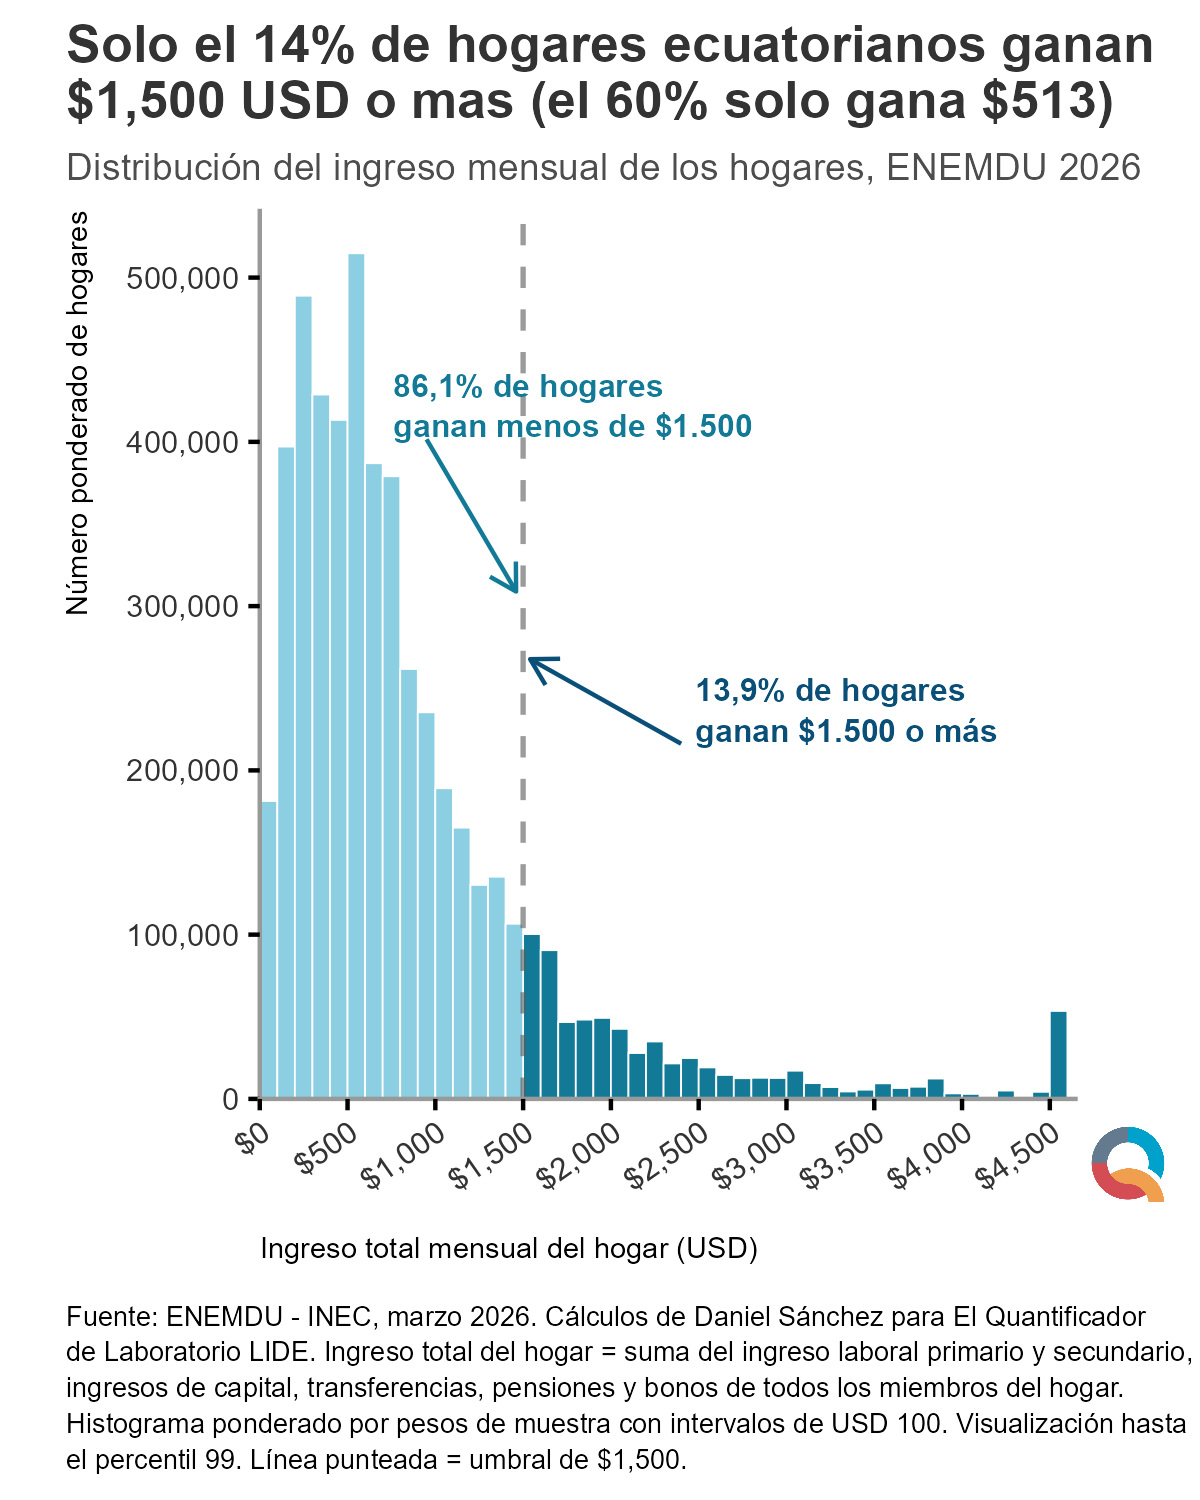
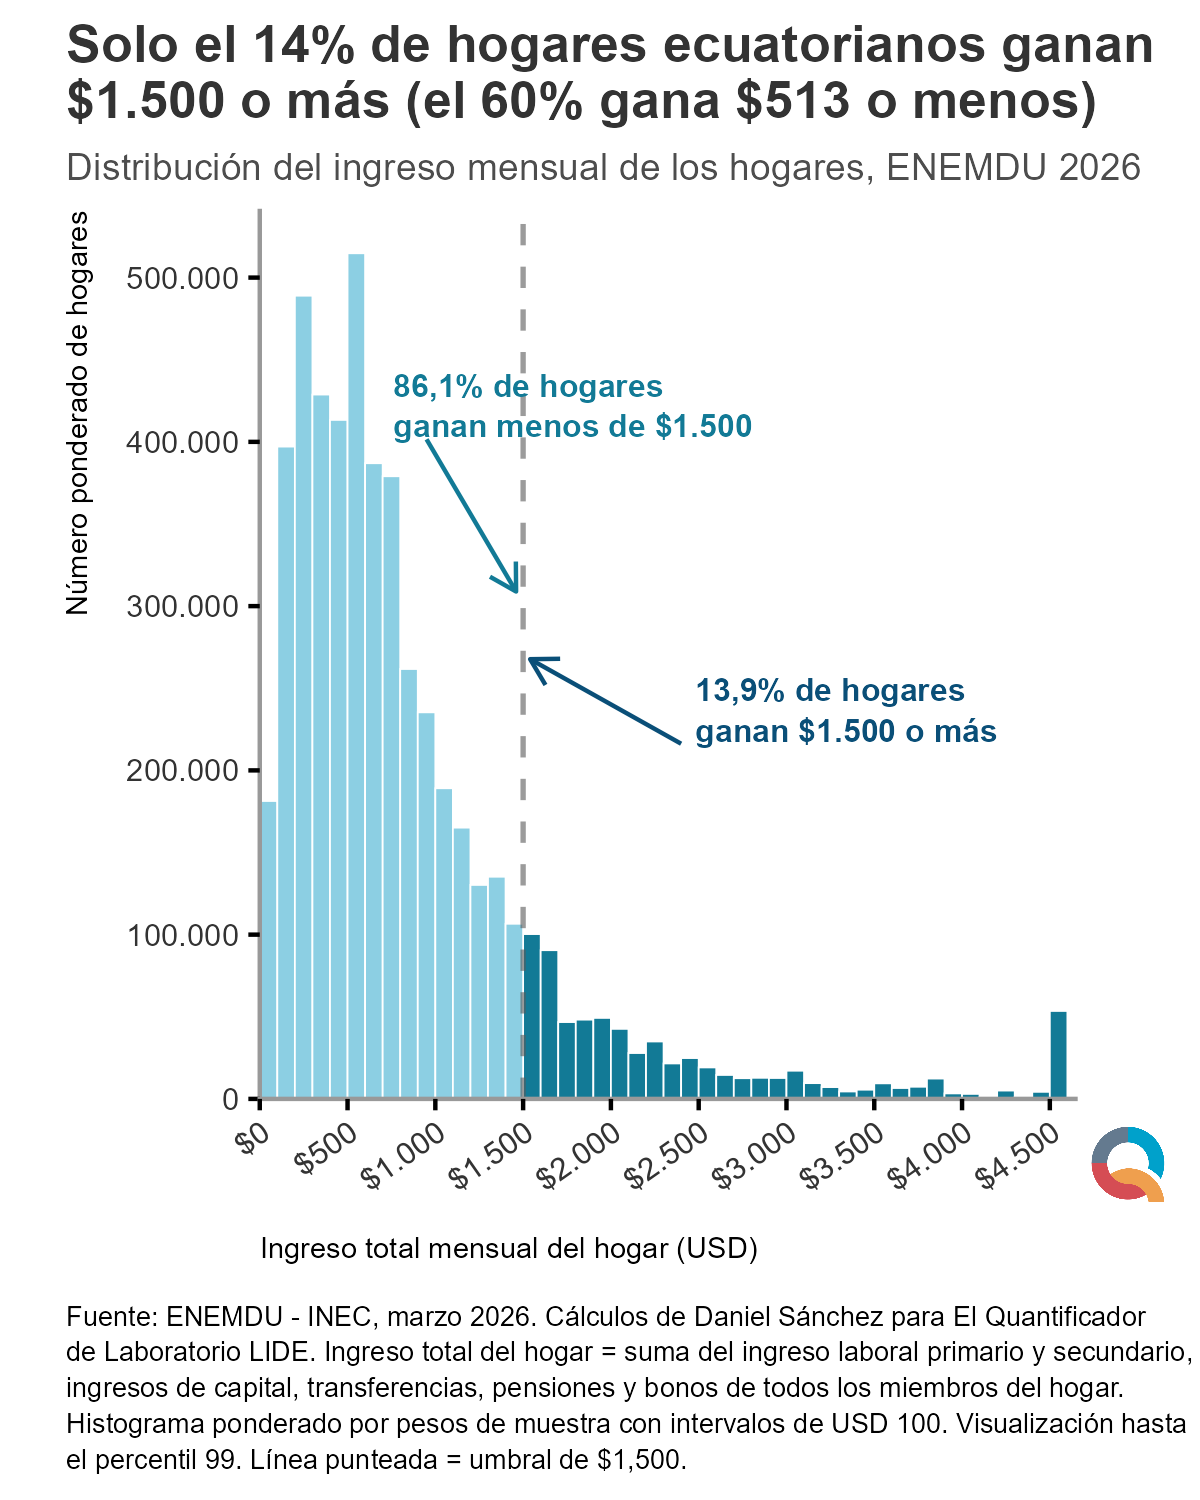
updates

Changed region(s): [[0.2158, 0.0307, 0.925, 0.092]]

diff --git a/tables/enemdu_ingreso_hogar_2026_03_summary.html b/tables/enemdu_ingreso_hogar_2026_03_summary.html
@@ -7,23 +7,23 @@
 
 </head>
 <body>
-<div id="nqqvnofami" style="padding-left:0px;padding-right:0px;padding-top:10px;padding-bottom:10px;overflow-x:auto;overflow-y:auto;width:auto;height:auto;">
-  <style>#nqqvnofami table {
+<div id="nqxqrzbqmh" style="padding-left:0px;padding-right:0px;padding-top:10px;padding-bottom:10px;overflow-x:auto;overflow-y:auto;width:auto;height:auto;">
+  <style>#nqxqrzbqmh table {
   font-family: system-ui, 'Segoe UI', Roboto, Helvetica, Arial, sans-serif, 'Apple Color Emoji', 'Segoe UI Emoji', 'Segoe UI Symbol', 'Noto Color Emoji';
   -webkit-font-smoothing: antialiased;
   -moz-osx-font-smoothing: grayscale;
 }
 
-#nqqvnofami thead, #nqqvnofami tbody, #nqqvnofami tfoot, #nqqvnofami tr, #nqqvnofami td, #nqqvnofami th {
+#nqxqrzbqmh thead, #nqxqrzbqmh tbody, #nqxqrzbqmh tfoot, #nqxqrzbqmh tr, #nqxqrzbqmh td, #nqxqrzbqmh th {
   border-style: none;
 }
 
-#nqqvnofami p {
+#nqxqrzbqmh p {
   margin: 0;
   padding: 0;
 }
 
-#nqqvnofami .gt_table {
+#nqxqrzbqmh .gt_table {
   display: table;
   border-collapse: collapse;
   line-height: normal;
@@ -49,12 +49,12 @@
   border-left-color: #D3D3D3;
 }
 
-#nqqvnofami .gt_caption {
+#nqxqrzbqmh .gt_caption {
   padding-top: 4px;
   padding-bottom: 4px;
 }
 
-#nqqvnofami .gt_title {
+#nqxqrzbqmh .gt_title {
   color: #333333;
   font-size: 125%;
   font-weight: initial;
@@ -66,7 +66,7 @@
   border-bottom-width: 0;
 }
 
-#nqqvnofami .gt_subtitle {
+#nqxqrzbqmh .gt_subtitle {
   color: #333333;
   font-size: 85%;
   font-weight: initial;
@@ -78,7 +78,7 @@
   border-top-width: 0;
 }
 
-#nqqvnofami .gt_heading {
+#nqxqrzbqmh .gt_heading {
   background-color: #FFFFFF;
   text-align: center;
   border-bottom-color: #FFFFFF;
@@ -90,13 +90,13 @@
   border-right-color: #D3D3D3;
 }
 
-#nqqvnofami .gt_bottom_border {
+#nqxqrzbqmh .gt_bottom_border {
   border-bottom-style: solid;
   border-bottom-width: 2px;
   border-bottom-color: #D3D3D3;
 }
 
-#nqqvnofami .gt_col_headings {
+#nqxqrzbqmh .gt_col_headings {
   border-top-style: solid;
   border-top-width: 2px;
   border-top-color: #D3D3D3;
@@ -111,7 +111,7 @@
   border-right-color: #D3D3D3;
 }
 
-#nqqvnofami .gt_col_heading {
+#nqxqrzbqmh .gt_col_heading {
   color: #333333;
   background-color: #FFFFFF;
   font-size: 100%;
@@ -131,7 +131,7 @@
   overflow-x: hidden;
 }
 
-#nqqvnofami .gt_column_spanner_outer {
+#nqxqrzbqmh .gt_column_spanner_outer {
   color: #333333;
   background-color: #FFFFFF;
   font-size: 100%;
@@ -143,15 +143,15 @@
   padding-right: 4px;
 }
 
-#nqqvnofami .gt_column_spanner_outer:first-child {
+#nqxqrzbqmh .gt_column_spanner_outer:first-child {
   padding-left: 0;
 }
 
-#nqqvnofami .gt_column_spanner_outer:last-child {
+#nqxqrzbqmh .gt_column_spanner_outer:last-child {
   padding-right: 0;
 }
 
-#nqqvnofami .gt_column_spanner {
+#nqxqrzbqmh .gt_column_spanner {
   border-bottom-style: solid;
   border-bottom-width: 2px;
   border-bottom-color: #D3D3D3;
@@ -163,11 +163,11 @@
   width: 100%;
 }
 
-#nqqvnofami .gt_spanner_row {
+#nqxqrzbqmh .gt_spanner_row {
   border-bottom-style: hidden;
 }
 
-#nqqvnofami .gt_group_heading {
+#nqxqrzbqmh .gt_group_heading {
   padding-top: 8px;
   padding-bottom: 8px;
   padding-left: 5px;
@@ -193,7 +193,7 @@
   text-align: left;
 }
 
-#nqqvnofami .gt_empty_group_heading {
+#nqxqrzbqmh .gt_empty_group_heading {
   padding: 0.5px;
   color: #333333;
   background-color: #FFFFFF;
@@ -208,15 +208,15 @@
   vertical-align: middle;
 }
 
-#nqqvnofami .gt_from_md > :first-child {
+#nqxqrzbqmh .gt_from_md > :first-child {
   margin-top: 0;
 }
 
-#nqqvnofami .gt_from_md > :last-child {
+#nqxqrzbqmh .gt_from_md > :last-child {
   margin-bottom: 0;
 }
 
-#nqqvnofami .gt_row {
+#nqxqrzbqmh .gt_row {
   padding-top: 8px;
   padding-bottom: 8px;
   padding-left: 5px;
@@ -235,7 +235,7 @@
   overflow-x: hidden;
 }
 
-#nqqvnofami .gt_stub {
+#nqxqrzbqmh .gt_stub {
   color: #333333;
   background-color: #FFFFFF;
   font-size: 100%;
@@ -248,7 +248,7 @@
   padding-right: 5px;
 }
 
-#nqqvnofami .gt_stub_row_group {
+#nqxqrzbqmh .gt_stub_row_group {
   color: #333333;
   background-color: #FFFFFF;
   font-size: 100%;
@@ -262,15 +262,15 @@
   vertical-align: top;
 }
 
-#nqqvnofami .gt_row_group_first td {
+#nqxqrzbqmh .gt_row_group_first td {
   border-top-width: 2px;
 }
 
-#nqqvnofami .gt_row_group_first th {
+#nqxqrzbqmh .gt_row_group_first th {
   border-top-width: 2px;
 }
 
-#nqqvnofami .gt_summary_row {
+#nqxqrzbqmh .gt_summary_row {
   color: #333333;
   background-color: #FFFFFF;
   text-transform: inherit;
@@ -280,16 +280,16 @@
   padding-right: 5px;
 }
 
-#nqqvnofami .gt_first_summary_row {
+#nqxqrzbqmh .gt_first_summary_row {
   border-top-style: solid;
   border-top-color: #D3D3D3;
 }
 
-#nqqvnofami .gt_first_summary_row.thick {
+#nqxqrzbqmh .gt_first_summary_row.thick {
   border-top-width: 2px;
 }
 
-#nqqvnofami .gt_last_summary_row {
+#nqxqrzbqmh .gt_last_summary_row {
   padding-top: 8px;
   padding-bottom: 8px;
   padding-left: 5px;
@@ -299,7 +299,7 @@
   border-bottom-color: #D3D3D3;
 }
 
-#nqqvnofami .gt_grand_summary_row {
+#nqxqrzbqmh .gt_grand_summary_row {
   color: #333333;
   background-color: #FFFFFF;
   text-transform: inherit;
@@ -309,7 +309,7 @@
   padding-right: 5px;
 }
 
-#nqqvnofami .gt_first_grand_summary_row {
+#nqxqrzbqmh .gt_first_grand_summary_row {
   padding-top: 8px;
   padding-bottom: 8px;
   padding-left: 5px;
@@ -319,7 +319,7 @@
   border-top-color: #D3D3D3;
 }
 
-#nqqvnofami .gt_last_grand_summary_row_top {
+#nqxqrzbqmh .gt_last_grand_summary_row_top {
   padding-top: 8px;
   padding-bottom: 8px;
   padding-left: 5px;
@@ -329,11 +329,11 @@
   border-bottom-color: #D3D3D3;
 }
 
-#nqqvnofami .gt_striped {
+#nqxqrzbqmh .gt_striped {
   background-color: rgba(128, 128, 128, 0.05);
 }
 
-#nqqvnofami .gt_table_body {
+#nqxqrzbqmh .gt_table_body {
   border-top-style: solid;
   border-top-width: 2px;
   border-top-color: #D3D3D3;
@@ -342,7 +342,7 @@
   border-bottom-color: #D3D3D3;
 }
 
-#nqqvnofami .gt_footnotes {
+#nqxqrzbqmh .gt_footnotes {
   color: #333333;
   background-color: #FFFFFF;
   border-bottom-style: none;
@@ -356,7 +356,7 @@
   border-right-color: #D3D3D3;
 }
 
-#nqqvnofami .gt_footnote {
+#nqxqrzbqmh .gt_footnote {
   margin: 0px;
   font-size: 90%;
   padding-top: 4px;
@@ -365,7 +365,7 @@
   padding-right: 5px;
 }
 
-#nqqvnofami .gt_sourcenotes {
+#nqxqrzbqmh .gt_sourcenotes {
   color: #333333;
   background-color: #FFFFFF;
   border-bottom-style: none;
@@ -379,7 +379,7 @@
   border-right-color: #D3D3D3;
 }
 
-#nqqvnofami .gt_sourcenote {
+#nqxqrzbqmh .gt_sourcenote {
   font-size: 90%;
   padding-top: 4px;
   padding-bottom: 4px;
@@ -387,72 +387,72 @@
   padding-right: 5px;
 }
 
-#nqqvnofami .gt_left {
+#nqxqrzbqmh .gt_left {
   text-align: left;
 }
 
-#nqqvnofami .gt_center {
+#nqxqrzbqmh .gt_center {
   text-align: center;
 }
 
-#nqqvnofami .gt_right {
+#nqxqrzbqmh .gt_right {
   text-align: right;
   font-variant-numeric: tabular-nums;
 }
 
-#nqqvnofami .gt_font_normal {
+#nqxqrzbqmh .gt_font_normal {
   font-weight: normal;
 }
 
-#nqqvnofami .gt_font_bold {
+#nqxqrzbqmh .gt_font_bold {
   font-weight: bold;
 }
 
-#nqqvnofami .gt_font_italic {
+#nqxqrzbqmh .gt_font_italic {
   font-style: italic;
 }
 
-#nqqvnofami .gt_super {
+#nqxqrzbqmh .gt_super {
   font-size: 65%;
 }
 
-#nqqvnofami .gt_footnote_marks {
+#nqxqrzbqmh .gt_footnote_marks {
   font-size: 75%;
   vertical-align: 0.4em;
   position: initial;
 }
 
-#nqqvnofami .gt_asterisk {
+#nqxqrzbqmh .gt_asterisk {
   font-size: 100%;
   vertical-align: 0;
 }
 
-#nqqvnofami .gt_indent_1 {
+#nqxqrzbqmh .gt_indent_1 {
   text-indent: 5px;
 }
 
-#nqqvnofami .gt_indent_2 {
+#nqxqrzbqmh .gt_indent_2 {
   text-indent: 10px;
 }
 
-#nqqvnofami .gt_indent_3 {
+#nqxqrzbqmh .gt_indent_3 {
   text-indent: 15px;
 }
 
-#nqqvnofami .gt_indent_4 {
+#nqxqrzbqmh .gt_indent_4 {
   text-indent: 20px;
 }
 
-#nqqvnofami .gt_indent_5 {
+#nqxqrzbqmh .gt_indent_5 {
   text-indent: 25px;
 }
 
-#nqqvnofami .katex-display {
+#nqxqrzbqmh .katex-display {
   display: inline-flex !important;
   margin-bottom: 0.75em !important;
 }
 
-#nqqvnofami div.Reactable > div.rt-table > div.rt-thead > div.rt-tr.rt-tr-group-header > div.rt-th-group:after {
+#nqxqrzbqmh div.Reactable > div.rt-table > div.rt-thead > div.rt-tr.rt-tr-group-header > div.rt-th-group:after {
   height: 0px !important;
 }
 </style>
